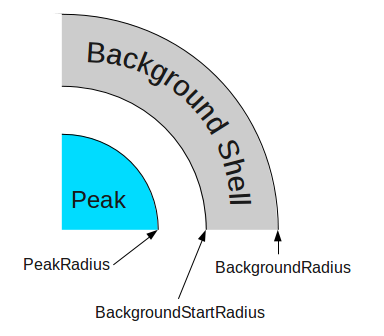
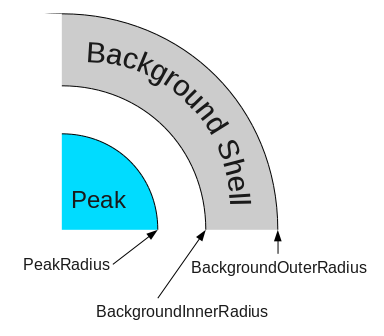
Refs #4990 changed names of arguments to IntegratePeaksMD

diff --git a/Code/Mantid/Framework/MDEvents/src/IntegratePeaksMD.cpp b/Code/Mantid/Framework/MDEvents/src/IntegratePeaksMD.cpp
@@ -20,10 +20,10 @@ Integration is performed by summing the weights of each MDEvent within the provi
 * A sphere of radius '''PeakRadius''' is integrated around the center of each peak.
 ** This gives the summed intensity <math>I_{peak}</math> and the summed squared error <math>\sigma I_{peak}^2</math>.
 ** The volume of integration is <math>V_{peak}</math>.
-* If '''BackgroundRadius''' is specified, then a shell, with radius r where '''BackgroundStartRadius''' < r < '''BackgroundRadius''', is integrated.
+* If '''BackgroundOuterRadius''' is specified, then a shell, with radius r where '''BackgroundInnerRadius''' < r < '''BackgroundOuterRadius''', is integrated.
 ** This gives the summed intensity <math>I_{shell}</math> and the summed squared error <math>\sigma I_{shell}^2</math>.
 ** The volume of integration is <math>V_{shell}</math>.
-** '''BackgroundStartRadius''' allows you to give some space between the peak and the background area.
+** '''BackgroundInnerRadius''' allows you to give some space between the peak and the background area.
 
 ==== Background Subtraction ====
 
@@ -43,9 +43,9 @@ with the errors summed in quadrature:
 
 <math>\sigma I_{corr}^2 = \sigma I_{peak}^2 + \sigma I_{bg}^2 </math>
 
-=== If BackgroundStartRadius is Omitted ===
+=== If BackgroundInnerRadius is Omitted ===
 
-If BackgroundStartRadius is left blank, then '''BackgroundStartRadius''' = '''PeakRadius''', and the integration is as follows:
+If BackgroundInnerRadius is left blank, then '''BackgroundInnerRadius''' = '''PeakRadius''', and the integration is as follows:
 
 [[File:IntegratePeaksMD_graph2.png]]
 
@@ -60,7 +60,7 @@ FindUBUsingFFT(PeaksWorkspace='peaks',MinD='2',MaxD='16')
 
 # Perform the peak integration, in-place in the 'peaks' workspace.
 IntegratePeaksMD(InputWorkspace='TOPAZ_3131_md', PeaksWorkspace='peaks',
-    PeakRadius=0.12, BackgroundRadius=0.2, BackgroundStartRadius=0.16,
+    PeakRadius=0.12, BackgroundOuterRadius=0.2, BackgroundInnerRadius=0.16,
     OutputWorkspace='peaks')
 </source>
 
@@ -129,14 +129,14 @@ namespace MDEvents
     declareProperty(new PropertyWithValue<double>("PeakRadius",1.0,Direction::Input),
         "Fixed radius around each peak position in which to integrate (in the same units as the workspace).");
 
-    declareProperty(new PropertyWithValue<double>("BackgroundRadius",0.0,Direction::Input),
-        "End radius to use to evaluate the background of the peak.\n"
-        "The signal density around the peak (BackgroundStartRadius < r < BackgroundRadius) is used to estimate the background under the peak.\n"
-        "If smaller than PeakRadius, no background measurement is done." );
+    declareProperty(new PropertyWithValue<double>("BackgroundInnerRadius",0.0,Direction::Input),
+        "Inner radius to use to evaluate the background of the peak.\n"
+        "If smaller than PeakRadius, then we assume BackgroundInnerRadius = PeakRadius." );
 
-    declareProperty(new PropertyWithValue<double>("BackgroundStartRadius",0.0,Direction::Input),
-        "Start radius to use to evaluate the background of the peak.\n"
-        "If smaller than PeakRadius, then we assume BackgroundStartRadius = PeakRadius." );
+    declareProperty(new PropertyWithValue<double>("BackgroundOuterRadius",0.0,Direction::Input),
+        "Outer radius to use to evaluate the background of the peak.\n"
+        "The signal density around the peak (BackgroundInnerRadius < r < BackgroundOuterRadius) is used to estimate the background under the peak.\n"
+        "If smaller than PeakRadius, no background measurement is done." );
 
     declareProperty(new WorkspaceProperty<PeaksWorkspace>("PeaksWorkspace","",Direction::Input),
         "A PeaksWorkspace containing the peaks to integrate.");
@@ -172,11 +172,11 @@ namespace MDEvents
     /// Radius to use around peaks
     double PeakRadius = getProperty("PeakRadius");
     /// Background (end) radius
-    double BackgroundRadius = getProperty("BackgroundRadius");
+    double BackgroundOuterRadius = getProperty("BackgroundOuterRadius");
     /// Start radius of the background
-    double BackgroundStartRadius = getProperty("BackgroundStartRadius");
-    if (BackgroundStartRadius < PeakRadius)
-      BackgroundStartRadius = PeakRadius;
+    double BackgroundInnerRadius = getProperty("BackgroundInnerRadius");
+    if (BackgroundInnerRadius < PeakRadius)
+      BackgroundInnerRadius = PeakRadius;
 
     // cppcheck-suppress syntaxError
     PRAGMA_OMP(parallel for schedule(dynamic, 10) )
@@ -212,37 +212,37 @@ namespace MDEvents
       // Integrate around the background radius
       signal_t bgSignal = 0;
       signal_t bgErrorSquared = 0;
-      if (BackgroundRadius > PeakRadius)
+      if (BackgroundOuterRadius > PeakRadius)
       {
-        // Get the total signal inside "BackgroundRadius"
-        ws->getBox()->integrateSphere(sphere, static_cast<coord_t>(BackgroundRadius*BackgroundRadius), bgSignal, bgErrorSquared);
+        // Get the total signal inside "BackgroundOuterRadius"
+        ws->getBox()->integrateSphere(sphere, static_cast<coord_t>(BackgroundOuterRadius*BackgroundOuterRadius), bgSignal, bgErrorSquared);
 
-        // Evaluate the signal inside "BackgroundStartRadius"
+        // Evaluate the signal inside "BackgroundInnerRadius"
         signal_t interiorSignal = 0;
         signal_t interiorErrorSquared = 0;
 
         // Integrate this 3rd radius, if needed
-        if (BackgroundStartRadius != PeakRadius)
-          ws->getBox()->integrateSphere(sphere, static_cast<coord_t>(BackgroundStartRadius*BackgroundStartRadius), interiorSignal, interiorErrorSquared);
+        if (BackgroundInnerRadius != PeakRadius)
+          ws->getBox()->integrateSphere(sphere, static_cast<coord_t>(BackgroundInnerRadius*BackgroundInnerRadius), interiorSignal, interiorErrorSquared);
         else
         {
-          // PeakRadius == BackgroundStartRadius, so use the previous value
+          // PeakRadius == BackgroundInnerRadius, so use the previous value
           interiorSignal = signal;
           interiorErrorSquared = errorSquared;
         }
 
-        // Subtract the peak part to get the intensity in the shell (BackgroundStartRadius < r < BackgroundRadius)
+        // Subtract the peak part to get the intensity in the shell (BackgroundInnerRadius < r < BackgroundOuterRadius)
         bgSignal -= interiorSignal;
         // We can subtract the error (instead of adding) because the two values are 100% dependent; this is the same as integrating a shell.
         bgErrorSquared -= interiorErrorSquared;
 
-        // Relative volume of peak vs the BackgroundRadius sphere
-        double ratio = (PeakRadius / BackgroundRadius);
+        // Relative volume of peak vs the BackgroundOuterRadius sphere
+        double ratio = (PeakRadius / BackgroundOuterRadius);
         double peakVolume = ratio * ratio * ratio;
 
         // Relative volume of the interior of the shell vs overall background
-        double interiorRatio = (BackgroundStartRadius / BackgroundRadius);
-        // Volume of the bg shell, relative to the volume of the BackgroundRadius sphere
+        double interiorRatio = (BackgroundInnerRadius / BackgroundOuterRadius);
+        // Volume of the bg shell, relative to the volume of the BackgroundOuterRadius sphere
         double bgVolume = 1.0 - interiorRatio * interiorRatio * interiorRatio;
 
         // Finally, you will multiply the bg intensity by this to get the estimated background under the peak volume

diff --git a/Code/Mantid/Framework/Crystal/src/PeakIntensityVsRadius.cpp b/Code/Mantid/Framework/Crystal/src/PeakIntensityVsRadius.cpp
@@ -15,8 +15,8 @@ a [[Workspace2D]] with one spectrum per peak, where:
 This algorithm calls [[IntegratePeaksMD]] repeatedly, with the following
 parameters filled in:
 * '''PeakRadius''' = the radius, ranging from RadiusStart to RadiusEnd in NumSteps steps.
-* '''BackgroundStartRadius''' = radius * BackgroundStartFactor
-* '''BackgroundRadius''' = radius * BackgroundEndFactor
+* '''BackgroundStartRadius''' = radius * BackgroundInnerFactor
+* '''BackgroundRadius''' = radius * BackgroundOuterFactor
 
 === Sample Usage ===
 
@@ -31,7 +31,7 @@ IndexPeaks(PeaksWorkspace='peaks')
 # Run the PeakIntensityVsRadius algorithm
 PeakIntensityVsRadius(InputWorkspace='TOPAZ_3131_md',PeaksWorkspace='peaks',
     RadiusStart=0.00, RadiusEnd=0.15, NumSteps=51,
-    BackgroundStartFactor=1.5,BackgroundEndFactor=2,
+    BackgroundInnerFactor=1.5,BackgroundOuterFactor=2,
     OutputWorkspace='peak_vs_rad')
 
 # Plot a few of the peaks
@@ -117,11 +117,11 @@ namespace Crystal
     declareProperty("RadiusStart", 0.0, "Radius at which to start integrating." );
     declareProperty("RadiusEnd", 1.0, "Radius at which to stop integrating." );
     declareProperty("NumSteps", 10, "Number of steps, between start and end, to calculate radius." );
-    declareProperty("BackgroundStartFactor", 0.0,
+    declareProperty("BackgroundInnerFactor", 0.0,
         "For background subtraction: the peak radius will be multiplied\n"
         "by this factor and passed to the BackgroundStartRadius parameter.\n"
         "Default 0.0 (no background)." );
-    declareProperty("BackgroundEndFactor", 0.0,
+    declareProperty("BackgroundOuterFactor", 0.0,
         "For background subtraction: the peak radius will be multiplied\n"
         "by this factor and passed to the BackgroundRadius parameter.\n"
         "Default 0.0 (no background)." );
@@ -139,8 +139,8 @@ namespace Crystal
     PeaksWorkspace_sptr peaksWS = getProperty("PeaksWorkspace");
     double RadiusStart = getProperty("RadiusStart");
     double RadiusEnd = getProperty("RadiusEnd");
-    double BackgroundStartFactor = getProperty("BackgroundStartFactor");
-    double BackgroundEndFactor = getProperty("BackgroundEndFactor");
+    double BackgroundInnerFactor = getProperty("BackgroundInnerFactor");
+    double BackgroundOuterFactor = getProperty("BackgroundOuterFactor");
     int NumSteps = getProperty("NumSteps");
 
     // Create a workspace with one spectrum per peak, and one point per radius step
@@ -171,8 +171,8 @@ namespace Crystal
       alg->setProperty("PeaksWorkspace", peaksWS);
       alg->setPropertyValue("CoordinatesToUse", this->getPropertyValue("CoordinatesToUse"));
       alg->setProperty("PeakRadius", radius);
-      alg->setProperty("BackgroundRadius", radius * BackgroundEndFactor);
-      alg->setProperty("BackgroundStartRadius", radius * BackgroundStartFactor);
+      alg->setProperty("BackgroundOuterRadius", radius * BackgroundOuterFactor);
+      alg->setProperty("BackgroundInnerrRadius", radius * BackgroundInnerFactor);
       alg->setPropertyValue("OutputWorkspace", "__tmp__PeakIntensityVsRadius");
       alg->execute();
       if (alg->isExecuted())
